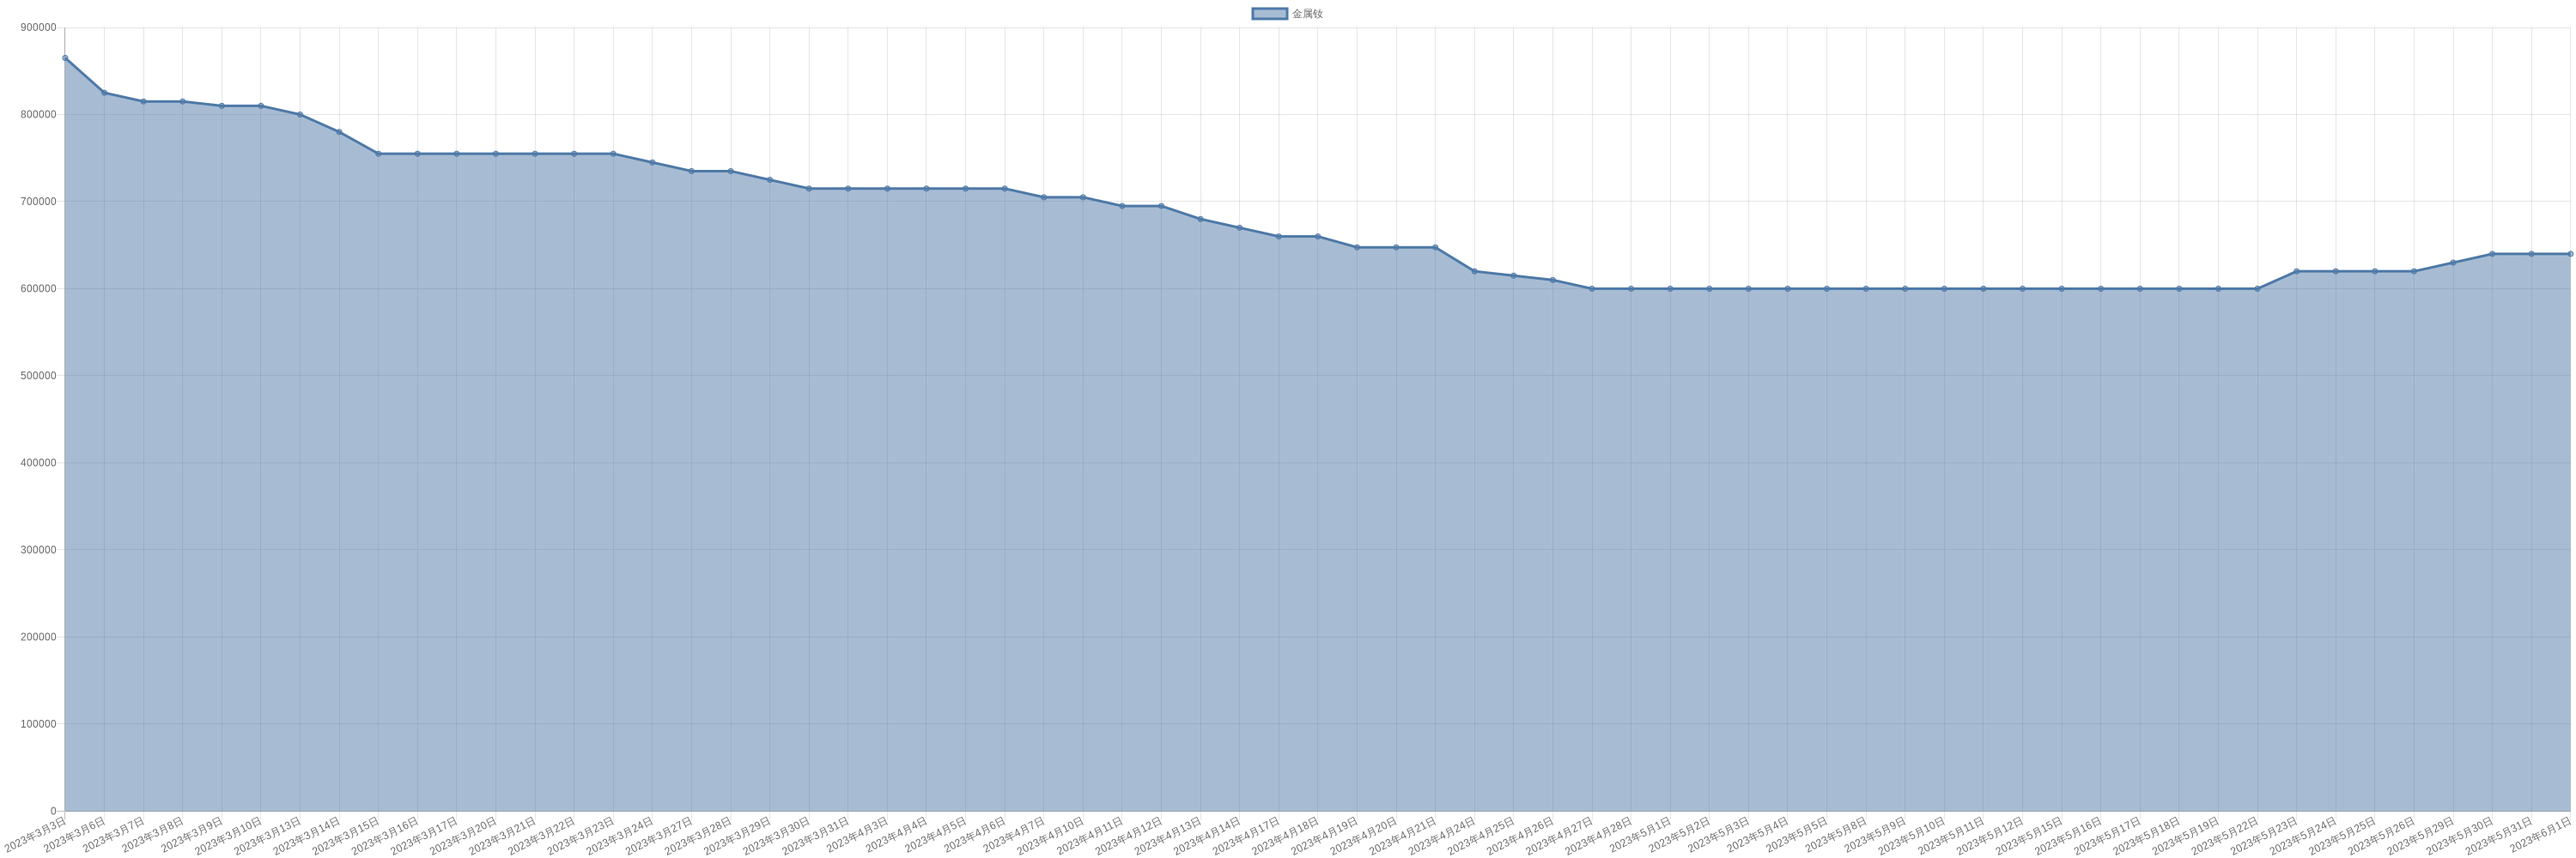
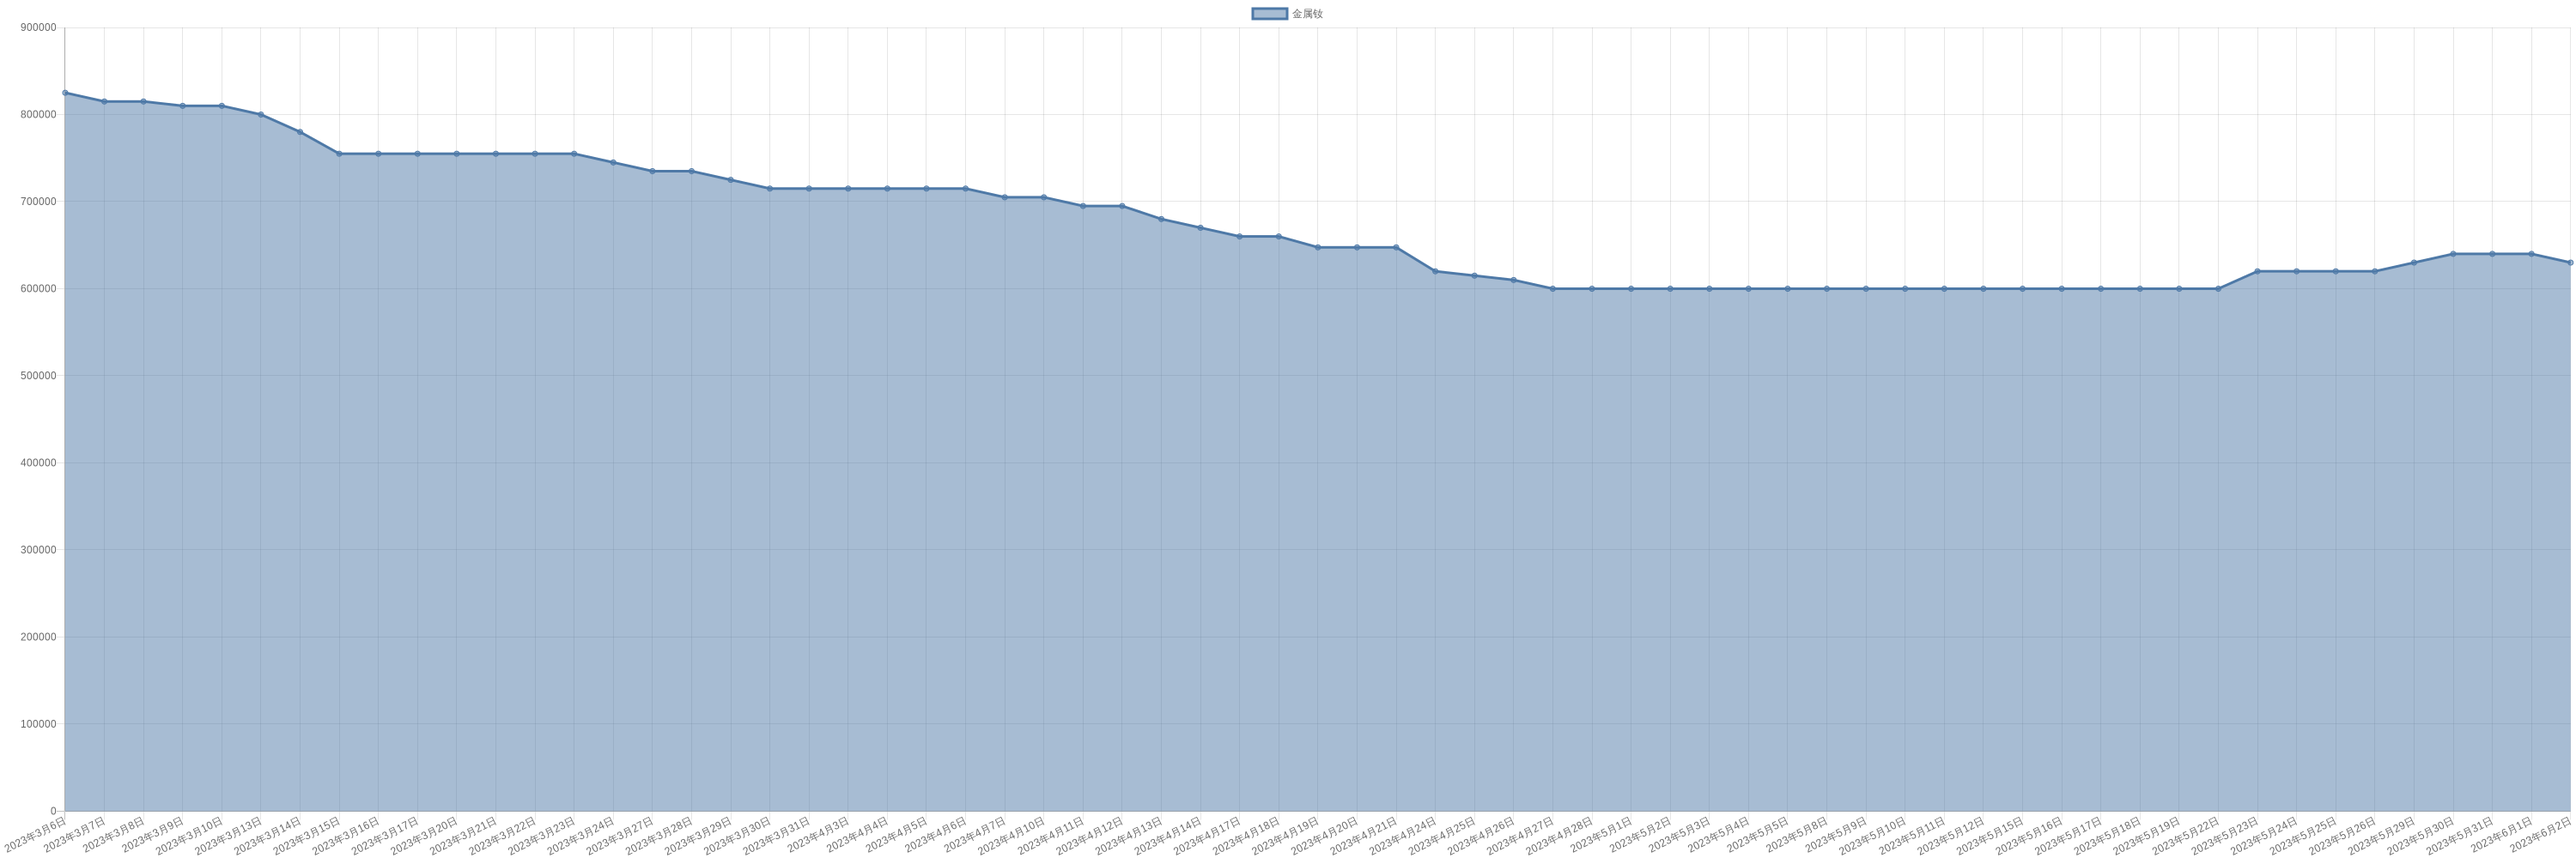
chore: sync commodity monitor

diff --git a/markdown/commodity/crudeOil.md b/markdown/commodity/crudeOil.md
@@ -2,6 +2,8 @@
 
 | 时间 | 价格 | 消息正文 |
 |:--:|:--:|:--:|
+|2023年6月2日Brent|74.28|6月2日Brent原油为74.28|
+|2023年6月2日WTI|70.1|6月2日WTI原油为70.10|
 |2023年6月1日WTI|68.09|6月1日WTI原油为68.09|
 |2023年6月1日Brent|72.6|6月1日Brent原油为72.60|
 |2023年5月31日WTI|69.46|5月31日WTI原油为69.46|

diff --git a/markdown/commodity/praseodymiumNeodymiumOxide.md b/markdown/commodity/praseodymiumNeodymiumOxide.md
@@ -8,6 +8,7 @@
 
 | 时间 | 价格 | 消息正文 |
 |:--:|:--:|:--:|
+|2023年6月2日|490000|6月2日镨钕氧化物为490000.00|
 |2023年6月1日|492500|6月1日镨钕氧化物为492500.00|
 |2023年5月31日|500000|5月31日镨钕氧化物为500000.00|
 |2023年5月30日|507500|5月30日镨钕氧化物为507500.00|

diff --git a/markdown/commodity/lithiumHydroxide.md b/markdown/commodity/lithiumHydroxide.md
@@ -8,6 +8,7 @@
 
 | 时间 | 价格 | 消息正文 |
 |:--:|:--:|:--:|
+|2023年6月2日|326250|6月2日氢氧化锂为326250.00|
 |2023年6月1日|326250|6月1日氢氧化锂为326250.00|
 |2023年5月31日|305000|5月31日氢氧化锂为305000.00|
 |2023年5月30日|305000|5月30日氢氧化锂为305000.00|

diff --git a/markdown/commodity/praseodymiumNeodymiumAlloy.md b/markdown/commodity/praseodymiumNeodymiumAlloy.md
@@ -8,6 +8,7 @@
 
 | 时间 | 价格 | 消息正文 |
 |:--:|:--:|:--:|
+|2023年6月2日|600000|6月2日镨钕合金为600000.00|
 |2023年6月1日|605000|6月1日镨钕合金为605000.00|
 |2023年5月31日|610000|5月31日镨钕合金为610000.00|
 |2023年5月30日|615000|5月30日镨钕合金为615000.00|

diff --git a/markdown/commodity/dysprosiumMetal.md b/markdown/commodity/dysprosiumMetal.md
@@ -8,6 +8,7 @@
 
 | 时间 | 价格 | 消息正文 |
 |:--:|:--:|:--:|
+|2023年6月2日|2680000|6月2日金属镝为2680000.00|
 |2023年6月1日|2680000|6月1日金属镝为2680000.00|
 |2023年5月31日|2680000|5月31日金属镝为2680000.00|
 |2023年5月30日|2680000|5月30日金属镝为2680000.00|

diff --git a/markdown/commodity/liquefiedNaturalGas.md b/markdown/commodity/liquefiedNaturalGas.md
@@ -8,6 +8,7 @@
 
 | 时间 | 价格 | 消息正文 |
 |:--:|:--:|:--:|
+|2023年6月2日|3684|6月2日液化天然气为3684.00|
 |2023年6月1日|3750|6月1日液化天然气为3750.00|
 |2023年5月31日|3760|5月31日液化天然气为3760.00|
 |2023年5月30日|3728|5月30日液化天然气为3728.00|

diff --git a/markdown/commodity/lithiumIronPhosphate.md b/markdown/commodity/lithiumIronPhosphate.md
@@ -8,6 +8,7 @@
 
 | 时间 | 价格 | 消息正文 |
 |:--:|:--:|:--:|
+|2023年6月2日|92000|6月2日磷酸铁锂为92000.00|
 |2023年6月1日|92000|6月1日磷酸铁锂为92000.00|
 |2023年5月31日|92000|5月31日磷酸铁锂为92000.00|
 |2023年5月30日|92000|5月30日磷酸铁锂为92000.00|

diff --git a/markdown/commodity/neodymium.md b/markdown/commodity/neodymium.md
@@ -8,6 +8,7 @@
 
 | 时间 | 价格 | 消息正文 |
 |:--:|:--:|:--:|
+|2023年6月2日|630000|6月2日金属钕为630000.00|
 |2023年6月1日|640000|6月1日金属钕为640000.00|
 |2023年5月31日|640000|5月31日金属钕为640000.00|
 |2023年5月30日|640000|5月30日金属钕为640000.00|

diff --git a/markdown/commodity/praseodymiumOxide.md b/markdown/commodity/praseodymiumOxide.md
@@ -8,6 +8,7 @@
 
 | 时间 | 价格 | 消息正文 |
 |:--:|:--:|:--:|
+|2023年6月2日|515000|6月2日氧化镨为515000.00|
 |2023年6月1日|515000|6月1日氧化镨为515000.00|
 |2023年5月31日|515000|5月31日氧化镨为515000.00|
 |2023年5月30日|515000|5月30日氧化镨为515000.00|
